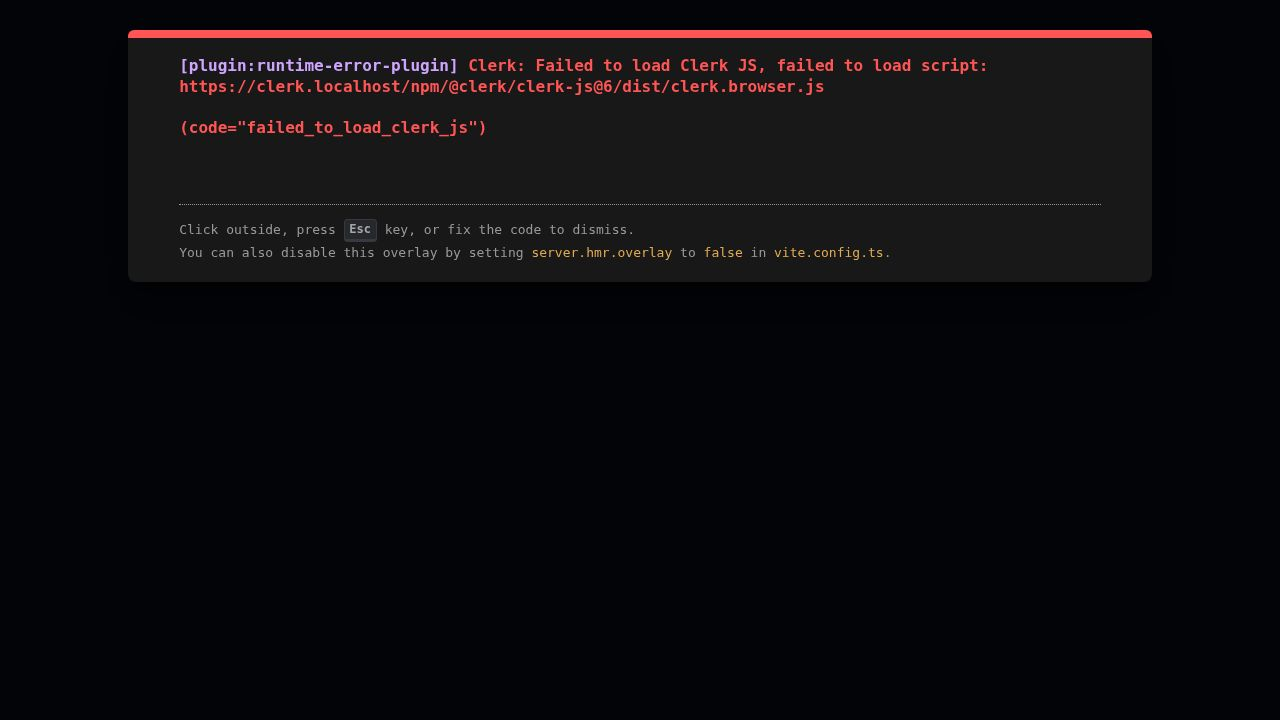
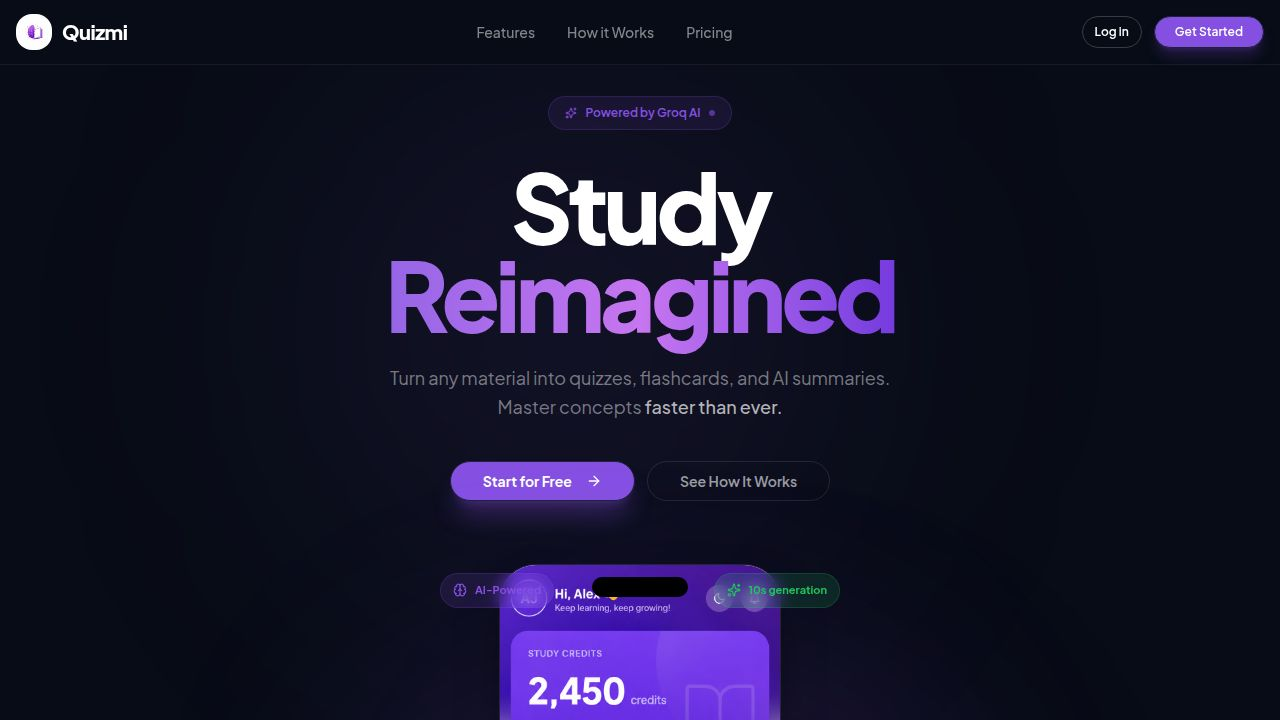
Address Clerk configuration and build issues
Update App.tsx to include a guard for the Clerk publishable key and modify vite.config.ts to make the PORT environment variable optional during build processes.

Replit-Commit-Author: Agent
Replit-Commit-Session-Id: cc5f8b7a-7076-47a9-a6eb-3443485d772b
Replit-Commit-Checkpoint-Type: full_checkpoint
Replit-Commit-Event-Id: 701e1354-5916-4103-96d9-864fa3ee4791
Replit-Commit-Screenshot-Url: https://storage.googleapis.com/screenshot-production-us-central1/c997132a-ae98-4015-81d8-76d8769933fb/cc5f8b7a-7076-47a9-a6eb-3443485d772b/kcu4qjA
Replit-Helium-Checkpoint-Created: true

Changed region(s): [[0.125, 0.2139, 0.75, 1.0], [0.0, 0.0, 1.0, 0.2139]]

diff --git a/artifacts/questly/vite.config.ts b/artifacts/questly/vite.config.ts
@@ -5,22 +5,24 @@ import path from "path";
 import runtimeErrorOverlay from "@replit/vite-plugin-runtime-error-modal";
 
 const rawPort = process.env.PORT;
+// PORT is only required when running the dev/preview server, not during `vite build`
+const isBuild = process.env.npm_lifecycle_event === "build";
 
-if (!rawPort) {
+if (!rawPort && !isBuild) {
   throw new Error(
     "PORT environment variable is required but was not provided.",
   );
 }
 
-const port = Number(rawPort);
+const port = Number(rawPort ?? "3000");
 
-if (Number.isNaN(port) || port <= 0) {
+if (!isBuild && (Number.isNaN(port) || port <= 0)) {
   throw new Error(`Invalid PORT value: "${rawPort}"`);
 }
 
 const basePath = process.env.BASE_PATH;
 
-if (!basePath) {
+if (!basePath && !isBuild) {
   throw new Error(
     "BASE_PATH environment variable is required but was not provided.",
   );

diff --git a/artifacts/questly/src/App.tsx b/artifacts/questly/src/App.tsx
@@ -32,6 +32,10 @@ const clerkPubKey = publishableKeyFromHost(
   import.meta.env.VITE_CLERK_PUBLISHABLE_KEY,
 );
 
+if (!clerkPubKey) {
+  throw new Error("Missing VITE_CLERK_PUBLISHABLE_KEY — Clerk has not been configured.");
+}
+
 const clerkProxyUrl = import.meta.env.VITE_CLERK_PROXY_URL;
 
 const basePath = import.meta.env.BASE_URL.replace(/\/$/, "");